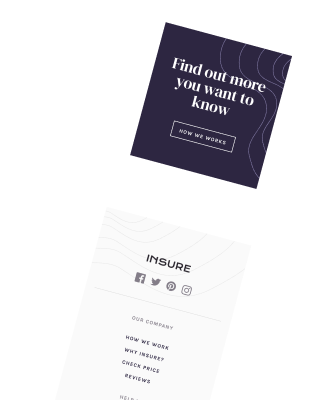
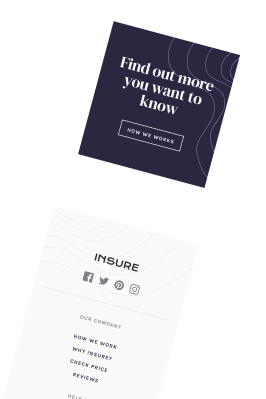
insure.html 80%

diff --git a/portfolio/insure.html b/portfolio/insure.html
@@ -56,12 +56,15 @@
                     each project, helping me to improve and adapt my style.</p>
                 <h2>Static Preview</h2>
                 <div style="padding: 20px; background-color: #9A99AB;">
-                    <img src="../images/Porto 2.png" alt="Portfolio Picture" height="100%">
+                    <img src="../images/Porto 3.png" alt="Portfolio Picture" height="100%">
                 </div>
-                <div class="showcase-1" style="background-color: #9A99AB;">
-                    <div><img src="../images/Porto 2M.png" alt="Showcase 1"></div>
-                    <div><img src="../images/Porto 2M Copy.png" alt="Showcase 2"></div>
-                    <div><img src="../images/Porto 2M Copy 2.png" alt="Showcase 3"></div>
+                <div class="showcase-insure" style="background-color: #9A99AB;">
+                    <!-- <img src="../images/Porto 3M.png" alt="Showcase 1">
+                    <img src="../images/Porto 3M Copy.png" alt="Showcase 2">
+                    <img src="../images/Porto 3M Copy 2.png" alt="Showcase 3"> -->
+                    <div><img src="../images/Porto 3M.png" alt="Showcase 1"></div>
+                    <div><img src="../images/Porto 3M Copy.png" alt="Showcase 2"></div>
+                    <div><img src="../images/Porto 3M Copy 2.png" alt="Showcase 3"></div>
                 </div>
             </div>
         </div>

diff --git a/css/style.css b/css/style.css
@@ -147,6 +147,18 @@ header a{
     margin-bottom: 40px;
 }
 
+.showcase-insure{
+    display: flex;
+    justify-content: space-evenly;
+    overflow: hidden;
+}
+.showcase-insure div{
+    margin: 0;
+}
+.showcase-insure div:first-child{
+    margin-top: 35px;
+}
+
 .img-card img {
     margin: auto;
     display: block;
